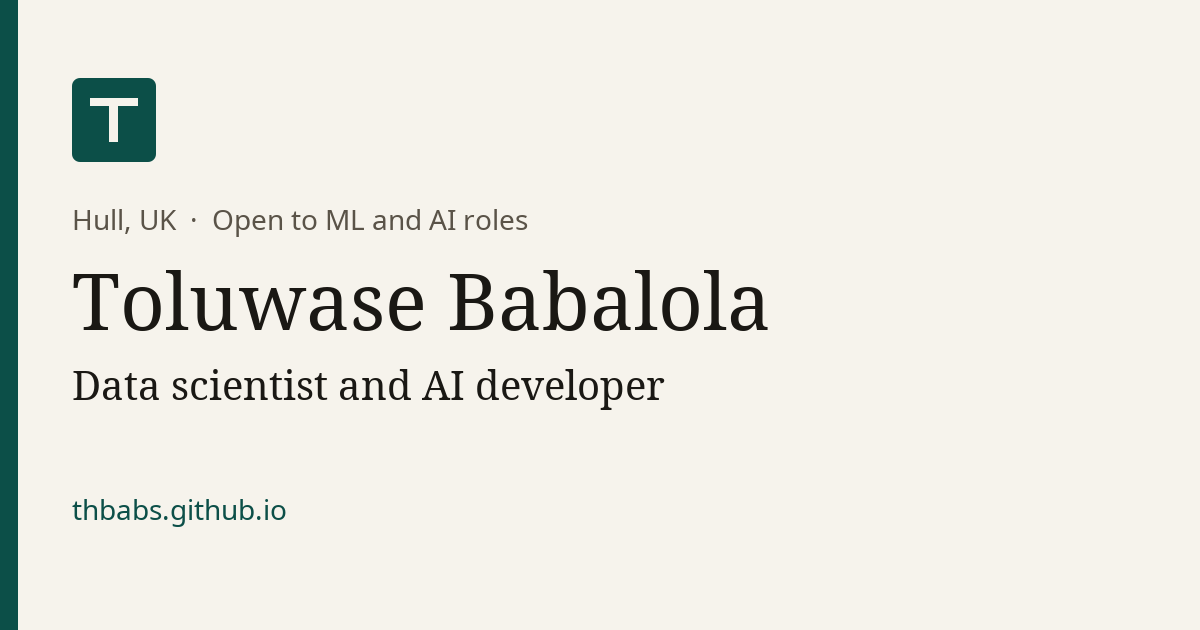
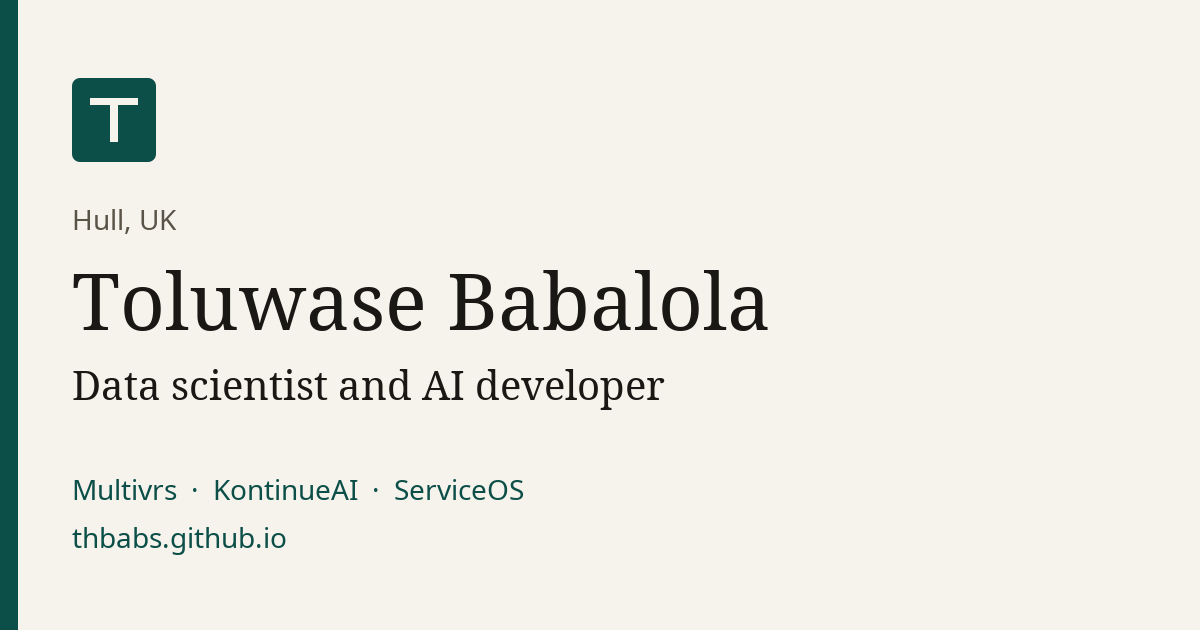
fix: lead with the three products
Drop the job-hunting line. Put Multivrs, KontinueAI and ServiceOS first, and shorten the project list.

Changed region(s): [[0.0617, 0.754, 0.4317, 0.8746], [0.1542, 0.3317, 0.4317, 0.3619]]

diff --git a/index.html b/index.html
@@ -4,7 +4,7 @@
     <meta charset="utf-8">
     <meta name="viewport" content="width=device-width, initial-scale=1">
     <title>Toluwase Babalola — Data scientist and AI developer</title>
-    <meta name="description" content="Portfolio of Toluwase Babalola (Tolu), a data scientist and AI developer in Hull, UK. Machine learning, language models and production AI.">
+    <meta name="description" content="Toluwase Babalola (Tolu), a data scientist and AI developer in Hull, UK. Building Multivrs, KontinueAI and ServiceOS.">
     <meta name="author" content="Toluwase Babalola">
     <meta name="color-scheme" content="light dark">
     <meta name="theme-color" content="#f6f3ec" media="(prefers-color-scheme: light)">
@@ -14,7 +14,7 @@
     <link rel="icon" href="/favicon-32.png" type="image/png" sizes="32x32">
     <link rel="apple-touch-icon" href="/apple-touch-icon.png">
     <meta property="og:title" content="Toluwase Babalola — Data scientist and AI developer">
-    <meta property="og:description" content="Portfolio of Toluwase Babalola (Tolu), a data scientist and AI developer in Hull, UK. Machine learning, language models and production AI.">
+    <meta property="og:description" content="Toluwase Babalola (Tolu), a data scientist and AI developer in Hull, UK. Building Multivrs, KontinueAI and ServiceOS.">
     <meta property="og:url" content="https://thbabs.github.io/">
     <meta property="og:type" content="website">
     <meta property="og:locale" content="en_GB">
@@ -24,7 +24,7 @@
     <meta property="og:image:alt" content="Toluwase Babalola, data scientist and AI developer, Hull, UK.">
     <meta name="twitter:card" content="summary_large_image">
     <meta name="twitter:title" content="Toluwase Babalola — Data scientist and AI developer">
-    <meta name="twitter:description" content="Portfolio of Toluwase Babalola (Tolu), a data scientist and AI developer in Hull, UK.">
+    <meta name="twitter:description" content="Toluwase Babalola (Tolu), a data scientist and AI developer in Hull, UK. Building Multivrs, KontinueAI and ServiceOS.">
     <meta name="twitter:image" content="https://thbabs.github.io/og.png">
     <link rel="stylesheet" href="/styles.css">
     <script type="application/ld+json">
@@ -47,6 +47,7 @@
           "https://github.com/thbabs",
           "https://www.linkedin.com/in/toluwasebabalola",
           "https://x.com/iamtolux",
+          "https://multivrs.space/",
           "https://kontinueai.com/"
         ]
       }
@@ -72,16 +73,13 @@
     </header>
     <main id="content">
       <section class="hero" aria-labelledby="intro-heading">
-        <p class="kicker">Hull, UK. Open to machine learning and AI roles.</p>
+        <p class="kicker">Hull, UK.</p>
         <h1 id="intro-heading">Toluwase Babalola</h1>
         <p class="headline">Data scientist and AI developer.</p>
         <p>
           I have spent more than five years building and deploying machine learning
-          systems, large language model applications and AI-powered APIs. The work
-          covers natural language processing, generative AI, retrieval-augmented
-          generation and predictive models, from prototype to production. I use
-          Python and SQL on AWS and GCP, and I am building KontinueAI, a unified
-          AI workspace.
+          systems, large language model applications and AI-powered APIs, from
+          prototype to production. I use Python and SQL on AWS and GCP.
         </p>
         <ul class="links">
           <li><a rel="me" href="https://github.com/thbabs">GitHub</a></li>
@@ -93,6 +91,15 @@
       <section id="products" aria-labelledby="products-heading">
         <h2 id="products-heading">Products</h2>
         <div class="stack">
+          <article>
+            <h3><a href="https://multivrs.space/">Multivrs</a></h3>
+            <p class="meta">multivrs.space</p>
+            <p>
+              A serverless edge deployment platform. Connect a repository and it
+              detects the framework, builds the project, optimises assets, and
+              serves them on a global edge network, with custom domains and email.
+            </p>
+          </article>
           <article>
             <h3><a href="https://kontinueai.com/">KontinueAI</a></h3>
             <p class="meta">kontinueai.com</p>
@@ -111,42 +118,28 @@
 
       <section id="projects" aria-labelledby="projects-heading">
         <h2 id="projects-heading">Selected projects</h2>
-        <div class="stack">
-          <article>
-            <h3>
-              <a href="https://github.com/thbabs/Detecting-Malicious-URLs-using-Google-s-BERT-and-LSTM-models">Malicious URL detection (BERT vs LSTM)</a>
-            </h3>
-            <p>
-              Compares an LSTM with pretrained BERT for detecting malicious
-              webpages, on an unbalanced set of 522,214 rows.
-            </p>
-          </article>
-          <article>
-            <h3>
-              <a href="https://github.com/thbabs/UK-CENSUS---Predicting-development-and-Investment">UK census: development and investment</a>
-            </h3>
-            <p>
-              Cleans and analyses a UK town census — age, employment, household
-              occupancy, births and deaths — to discuss development and investment.
-            </p>
-          </article>
-          <article>
-            <h3><a href="https://github.com/thbabs/gdp-dashboard">GDP dashboard</a></h3>
-            <p>Streamlit dashboard of GDP by country, covering 1960 to 2022.</p>
-          </article>
-          <article>
-            <h3><a href="https://github.com/thbabs/SportBot">SportBot</a></h3>
-            <p>Streamlit chatbot that calls OpenAI’s GPT-3.5 Turbo.</p>
-          </article>
-          <article>
-            <h3><a href="https://github.com/thbabs/Climate-Change-RAG">Climate-Change-RAG</a></h3>
-            <p>
-              Retrieval-augmented assistant over climate-change research papers.
-              It stores embeddings in ChromaDB and answers with Google Gemini,
-              in a Streamlit app.
-            </p>
-          </article>
-        </div>
+        <ul class="project-list">
+          <li>
+            <a href="https://github.com/thbabs/Detecting-Malicious-URLs-using-Google-s-BERT-and-LSTM-models">Malicious URL detection</a>
+            <span>LSTM and pretrained BERT on 522,214 rows.</span>
+          </li>
+          <li>
+            <a href="https://github.com/thbabs/UK-CENSUS---Predicting-development-and-Investment">UK census</a>
+            <span>Town census analysis for development and investment.</span>
+          </li>
+          <li>
+            <a href="https://github.com/thbabs/gdp-dashboard">GDP dashboard</a>
+            <span>Streamlit view of GDP by country, 1960 to 2022.</span>
+          </li>
+          <li>
+            <a href="https://github.com/thbabs/SportBot">SportBot</a>
+            <span>Streamlit chatbot using OpenAI’s GPT-3.5 Turbo.</span>
+          </li>
+          <li>
+            <a href="https://github.com/thbabs/Climate-Change-RAG">Climate-Change-RAG</a>
+            <span>RAG over climate papers with ChromaDB and Gemini.</span>
+          </li>
+        </ul>
       </section>
 
       <section id="articles" aria-labelledby="articles-heading">

diff --git a/styles.css b/styles.css
@@ -207,6 +207,50 @@ section {
   margin-top: 0;
 }
 
+#products {
+  margin-top: 3.75rem;
+}
+
+#products h3 {
+  font-family: Georgia, "Iowan Old Style", "Palatino Linotype", Palatino, serif;
+  font-size: 1.55rem;
+  font-weight: 500;
+}
+
+#products .stack > * + * {
+  margin-top: 1.6rem;
+  padding-top: 1.6rem;
+}
+
+.project-list {
+  list-style: none;
+  margin: 0;
+  padding: 0;
+}
+
+.project-list li {
+  display: flex;
+  flex-wrap: wrap;
+  gap: 0.15rem 0.75rem;
+  align-items: baseline;
+  padding: 0.55rem 0;
+  border-top: 1px solid var(--line);
+}
+
+.project-list li:last-child {
+  border-bottom: 1px solid var(--line);
+}
+
+.project-list a {
+  color: var(--ink);
+  font-weight: 600;
+  text-decoration-thickness: 1px;
+}
+
+.project-list span {
+  color: var(--muted);
+}
+
 /* Let the last section scroll clear of the sticky header. */
 #contact {
   min-height: calc(100svh - 9.5rem);
